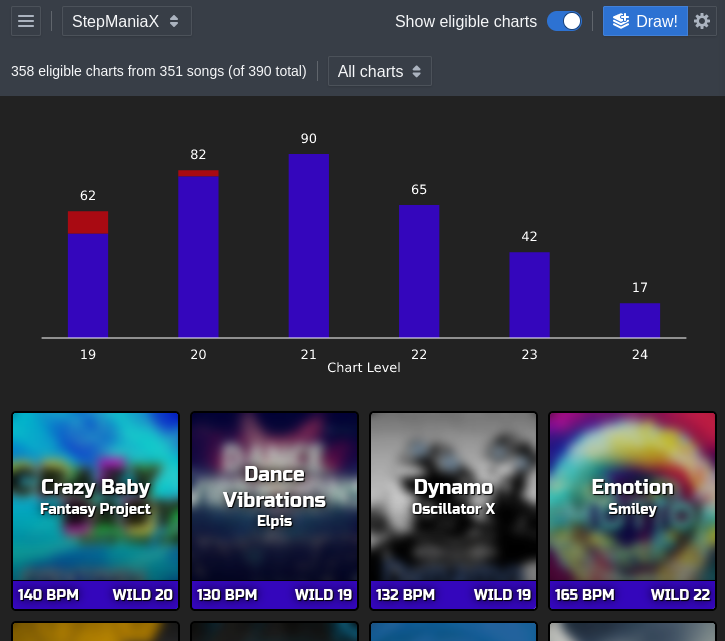
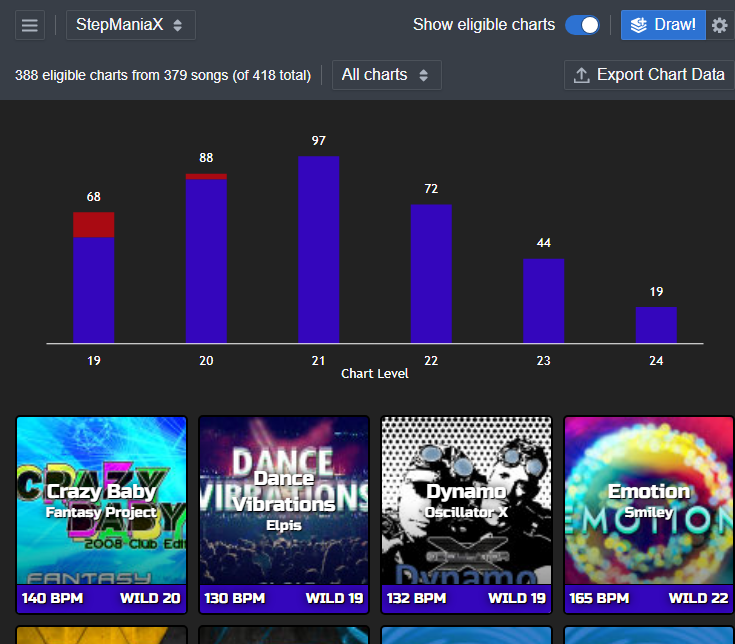
Allow export of current eligible charts, fixes #307

diff --git a/src/tournament-mode/drawing-actions.tsx b/src/tournament-mode/drawing-actions.tsx
@@ -85,84 +85,82 @@ export function DrawingActions() {
   );
 
   return (
-    <>
-      <div className={styles.networkButtons}>
-        {syncPeer && <Icon icon={<Changes />} intent="success" />}
-        {isConnected ? (
-          remotePeers.size ? (
-            <Popover content={remoteActions}>{button}</Popover>
-          ) : (
-            <Tooltip content="Connect to a peer to share">{button}</Tooltip>
-          )
-        ) : null}
-        <Tooltip content="Save Image">
-          <Button
-            minimal
-            icon={<Camera />}
-            onClick={async () => {
-              const drawingId = getDrawing().id;
-              const drawingElement = document.querySelector(
-                "#drawing-" + drawingId,
+    <div className={styles.networkButtons}>
+      {syncPeer && <Icon icon={<Changes />} intent="success" />}
+      {isConnected ? (
+        remotePeers.size ? (
+          <Popover content={remoteActions}>{button}</Popover>
+        ) : (
+          <Tooltip content="Connect to a peer to share">{button}</Tooltip>
+        )
+      ) : null}
+      <Tooltip content="Save Image">
+        <Button
+          minimal
+          icon={<Camera />}
+          onClick={async () => {
+            const drawingId = getDrawing().id;
+            const drawingElement = document.querySelector(
+              "#drawing-" + drawingId,
+            );
+            if (drawingElement) {
+              shareImage(
+                await domToPng(drawingElement, {
+                  scale: 2,
+                }),
+                DEFAULT_FILENAME,
               );
-              if (drawingElement) {
-                shareImage(
-                  await domToPng(drawingElement, {
-                    scale: 2,
-                  }),
-                  DEFAULT_FILENAME,
-                );
-              }
-            }}
-          />
-        </Tooltip>
-        <Tooltip content="Redraw all charts">
-          <Button
-            minimal
-            icon={<Refresh />}
-            onClick={() =>
-              confirm(
-                "This will replace everything besides protects and pocket picks!",
-              ) && redrawAllCharts()
             }
-          />
+          }}
+        />
+      </Tooltip>
+      <Tooltip content="Redraw all charts">
+        <Button
+          minimal
+          icon={<Refresh />}
+          onClick={() =>
+            confirm(
+              "This will replace everything besides protects and pocket picks!",
+            ) && redrawAllCharts()
+          }
+        />
+      </Tooltip>
+      {process.env.NODE_ENV === "production" ? null : (
+        <Tooltip content="Cause Error">
+          <Button minimal icon={<Error />} onClick={showBoundary} />
         </Tooltip>
-        {process.env.NODE_ENV === "production" ? null : (
-          <Tooltip content="Cause Error">
-            <Button minimal icon={<Error />} onClick={showBoundary} />
+      )}
+      {showLabels && (
+        <>
+          <Tooltip content="Add Player">
+            <Button
+              minimal
+              icon={<NewPerson />}
+              onClick={() => {
+                updateDrawing((drawing) => {
+                  const next = drawing.players.slice();
+                  next.push("");
+                  return { players: next };
+                });
+              }}
+            />
           </Tooltip>
-        )}
-        {showLabels && (
-          <>
-            <Tooltip content="Add Player">
-              <Button
-                minimal
-                icon={<NewPerson />}
-                onClick={() => {
-                  updateDrawing((drawing) => {
-                    const next = drawing.players.slice();
-                    next.push("");
-                    return { players: next };
-                  });
-                }}
-              />
-            </Tooltip>
-            <Tooltip content="Remove Player" disabled={!hasPlayers}>
-              <Button
-                minimal
-                icon={<BlockedPerson />}
-                disabled={!hasPlayers}
-                onClick={() => {
-                  updateDrawing((drawing) => {
-                    const next = drawing.players.slice();
-                    next.pop();
-                    return { players: next };
-                  });
-                }}
-              />
-            </Tooltip>
-          </>
-        )}
-      </div>
-    </>
+          <Tooltip content="Remove Player" disabled={!hasPlayers}>
+            <Button
+              minimal
+              icon={<BlockedPerson />}
+              disabled={!hasPlayers}
+              onClick={() => {
+                updateDrawing((drawing) => {
+                  const next = drawing.players.slice();
+                  next.pop();
+                  return { players: next };
+                });
+              }}
+            />
+          </Tooltip>
+        </>
+      )}
+    </div>
   );
 }

diff --git a/src/utils/share.ts b/src/utils/share.ts
@@ -1,3 +1,5 @@
+import { zeroPad } from ".";
+import { EligibleChart } from "../models/Drawing";
 import { toaster } from "../toaster";
 
 interface NativeShare {
@@ -13,6 +15,57 @@ interface Clipboard {
 
 interface Download {
   type: "download";
+}
+
+export function dateForFilename() {
+  const d = new Date();
+  return `${d.getFullYear()}${zeroPad(d.getMonth() + 1, 2)}${zeroPad(d.getDay(), 2)}-${zeroPad(d.getHours(), 2)}${zeroPad(d.getMinutes(), 2)}${zeroPad(d.getSeconds(), 2)}`;
+}
+
+export async function shareCharts(charts: EligibleChart[]) {
+  const csvData = [
+    ["name", "diff", "lvl", "sanbaiLvl", "bpm", "artist"],
+    ...charts.map((chart) => {
+      return [
+        chart.name,
+        chart.diffAbbr,
+        chart.level,
+        chart.granularLevel,
+        chart.bpm,
+        chart.artist,
+      ];
+    }),
+  ];
+
+  const pp = await import("papaparse");
+
+  shareData(buildDataUri(pp.unparse(csvData), "text/csv", "url"), {
+    filename: `ddr-tools-eligible-charts-${dateForFilename()}.csv`,
+    methods: [
+      { type: "nativeShare", allowDesktop: false },
+      { type: "download" },
+    ],
+  });
+}
+
+export function buildDataUri(
+  utf8Payload: string,
+  mimetype: string,
+  encoding: "base64" | "url",
+) {
+  let encodedData: string;
+  let encodingMarker = "";
+  if (encoding === "base64") {
+    encodingMarker = ";base64";
+    const data = new TextEncoder().encode(utf8Payload);
+    const binString = Array.from(data, (byte) =>
+      String.fromCodePoint(byte),
+    ).join("");
+    encodedData = btoa(binString);
+  } else {
+    encodedData = encodeURI(utf8Payload);
+  }
+  return `data:${mimetype}${encodingMarker},${encodedData}`;
 }
 
 type ShareMethod = NativeShare | Clipboard | Download;
@@ -51,7 +104,12 @@ export async function shareData(
           method.allowDesktop,
         );
         if (maybePromise) {
-          return maybePromise;
+          try {
+            await maybePromise;
+            return;
+          } catch (e) {
+            console.warn("nativeShare failed", e);
+          }
         }
         break;
 
@@ -69,12 +127,13 @@ export async function shareData(
             "copied-data",
           );
           return;
-        } catch {
+        } catch (e) {
+          console.warn("clipboard share failed", e);
           break;
         }
       case "download":
         downloadDataUrl(dataUri, opts.filename);
-        break;
+        return;
     }
   }
 }

diff --git a/src/eligible-charts/index.tsx b/src/eligible-charts/index.tsx
@@ -4,13 +4,21 @@ import { useDrawState } from "../draw-state";
 import { SongCard } from "../song-card";
 import styles from "../drawing-list.css";
 import { EligibleChart } from "../models/Drawing";
-import { Navbar, NavbarGroup, NavbarDivider, Spinner } from "@blueprintjs/core";
+import {
+  Navbar,
+  NavbarGroup,
+  NavbarDivider,
+  Spinner,
+  Button,
+} from "@blueprintjs/core";
 import { useIsNarrow } from "../hooks/useMediaQuery";
 import { useAtom } from "jotai";
-import { useDeferredValue, useMemo } from "react";
+import { useCallback, useDeferredValue, useMemo } from "react";
 import { currentTabAtom, EligibleChartsListFilter } from "./filter";
 import { DiffHistogram } from "./histogram";
 import { isDegrs, TesterCard } from "../controls/degrs-tester";
+import { Export } from "@blueprintjs/icons";
+import { shareCharts } from "../utils/share";
 
 function songKeyFromChart(chart: EligibleChart) {
   return `${chart.name}:${chart.artist}`;
@@ -39,6 +47,10 @@ export default function EligibleChartsList() {
     return [songs, filtered];
   }, [charts, isDisplayFiltered, currentTab]);
 
+  const exportData = useCallback(async () => {
+    shareCharts(filteredCharts);
+  }, [filteredCharts]);
+
   if (!gameData) {
     return <Spinner />;
   }
@@ -61,6 +73,16 @@ export default function EligibleChartsList() {
             <EligibleChartsListFilter />
           </NavbarGroup>
         )}
+        <NavbarGroup align="right">
+          <Button
+            aria-label={isNarrow ? "Export Chart Data" : undefined}
+            title="Export current chart data as a CSV file"
+            icon={<Export />}
+            onClick={exportData}
+          >
+            {isNarrow ? "" : "Export Chart Data"}
+          </Button>
+        </NavbarGroup>
       </Navbar>
       <DiffHistogram charts={filteredCharts} />
       <div className={styles.chartList}>

diff --git a/src/config-persistence.ts b/src/config-persistence.ts
@@ -1,7 +1,7 @@
 import { ConfigState, useConfigState } from "./config-state";
 import { useDrawState } from "./draw-state";
 import { toaster } from "./toaster";
-import { shareData } from "./utils/share";
+import { buildDataUri, dateForFilename, shareData } from "./utils/share";
 
 interface PersistedConfigV1 {
   version: 1;
@@ -31,11 +31,14 @@ type Serialized<T extends object> = {
 
 export function saveConfig() {
   const persistedObj = buildPersistedConfig();
-  const dataUri = `data:application/json,${encodeURI(
+  const dataUri = buildDataUri(
     JSON.stringify(persistedObj, undefined, 2),
-  )}`;
+    "application/json",
+    "url",
+  );
+
   return shareData(dataUri, {
-    filename: `card-draw-config-${persistedObj.dataSetName}.json`,
+    filename: `ddr-tools-config-${persistedObj.dataSetName}-${dateForFilename()}.json`,
     methods: [
       { type: "nativeShare", allowDesktop: true },
       { type: "download" },

diff --git a/docs/readme.md b/docs/readme.md
@@ -133,6 +133,10 @@ Second, it can also be handy to summarize an entire game's song library by using
 
 ![Screenshot of eligible charts toggle enabled](images/eligible-charts.png)
 
+### Export Chart Data
+
+While viewing the list of eligible charts, the "Export Chart Data" button (icon only for mobile devices) will save the current list of charts as a CSV file for future reference or data processing.
+
 ## Save as Image
 
 Each drawn set has a camera icon in the top right. This saves an image of the current set with a transparent background suitable for use in stream layouts and other such designs. Resize your browser window to adjust the aspect ratio of the generated image.
